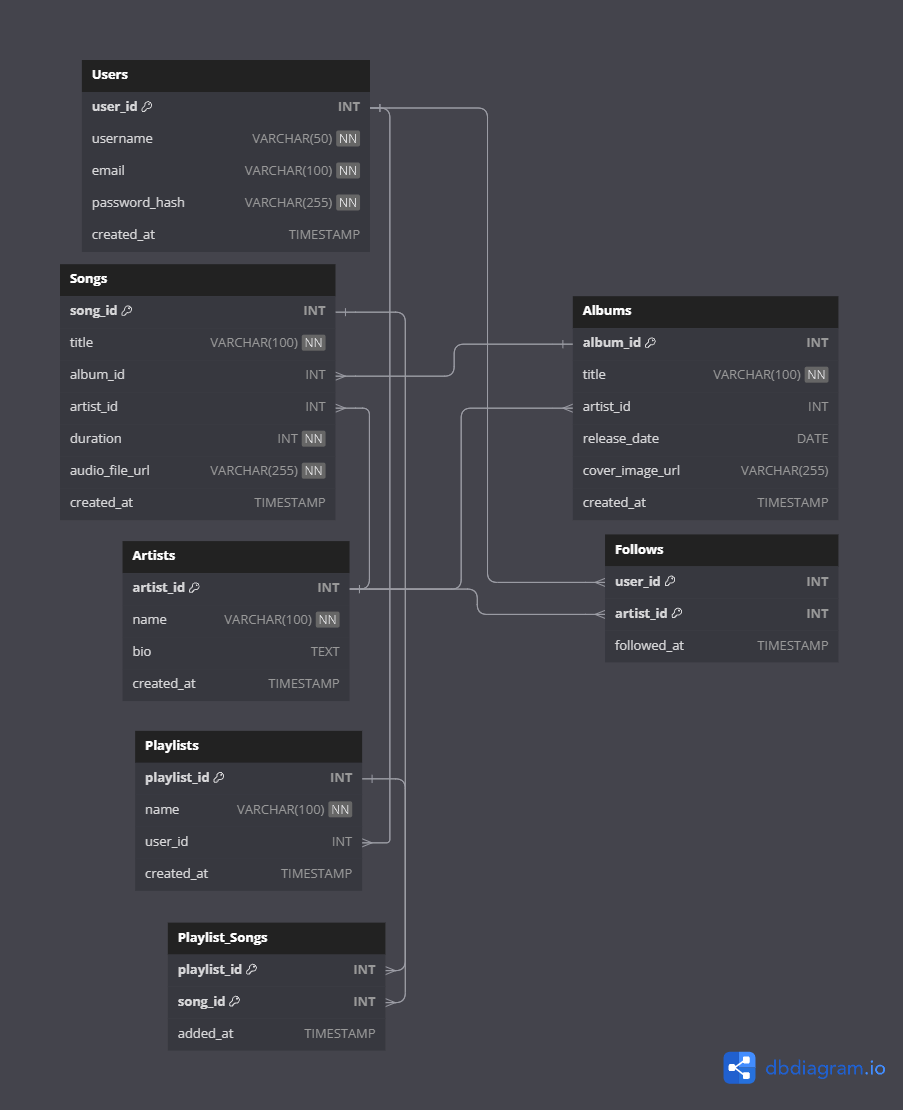
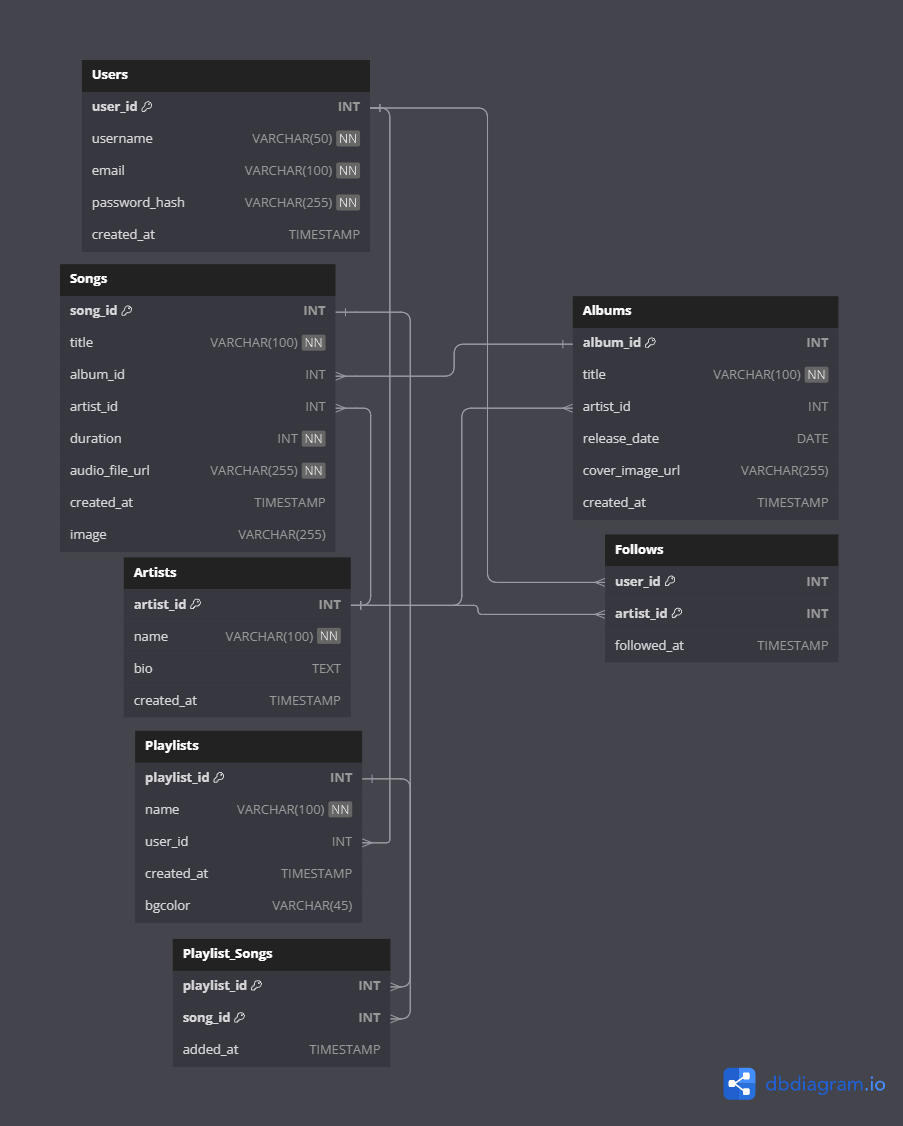
api101

diff --git a/src/services/server.js b/src/services/server.js
@@ -1,8 +1,12 @@
-const express = require("express");
-const mysql = require("mysql");
-const bcrypt = require("bcryptjs");
-const http = require("http");
-const cors = require("cors");
+import express from "express";
+import cors from "cors";
+import mysql from "mysql";
+import bcrypt from "bcrypt";
+import http from "http";
+import fs from "fs";
+import path from "path";
+import multer from "multer";
+const upload = multer({ dest: 'uploads/' });
 
 const port = 3000;
 
@@ -95,71 +99,71 @@ app.get("/playlist/:id/songs", (req, res) => {
 });
 
 app.post(
-    "/addSong",
-    upload.fields([
-        { name: "image", maxCount: 1 },
-        { name: "song", maxCount: 1 },
-    ]),
-    (req, res) => {
-        const { title, artist_id, album_id } = req.body;
+  "/addSong",
+  upload.fields([
+      { name: "image", maxCount: 1 },
+      { name: "song", maxCount: 1 },
+  ]),
+  (req, res) => {
+      const { title, artist_id, album_id } = req.body;
 
-        // First, add the song to the database
-        const query =
-            "INSERT INTO songs (title, artist_id, album_id) VALUES (?, ?, ?)";
-        const values = [title, artist_id, album_id];
+      // Önce şarkıyı veritabanına ekleyin
+      const query =
+          "INSERT INTO songs (title, artist_id, album_id) VALUES (?, ?, ?)";
+      const values = [title, artist_id, album_id];
 
-        db.query(query, values, (err, result) => {
-            if (err) {
-                console.error("An error occurred while adding the song:", err);
-                return res.status(500).send("An error occurred while adding the song.");
-            }
+      db.query(query, values, (err, result) => {
+          if (err) {
+              console.error("Şarkı eklenirken bir hata oluştu:", err);
+              return res.status(500).send("Şarkı eklenirken bir hata oluştu.");
+          }
 
-            const songId = result.insertId; // The inserted song's ID
+          const songId = result.insertId; // Eklenen şarkının ID'si
 
-            // Generate file names with the song ID
-            const imageFileName = `image_${songId}.jpg`;
-            const songFileName = `song_${songId}.mp3`;
+          // Şarkı ID'si ile dosya adları oluşturun
+          const imageFileName = `image_${songId}.jpg`;
+          const songFileName = `song_${songId}.mp3`;
 
-            // Rename and save the files to the correct locations
-            const oldImagePath = req.files.image[0].path;
-            const oldSongPath = req.files.song[0].path;
+          // Dosyaları doğru konumlara yeniden adlandırarak kaydedin
+          const oldImagePath = req.files.image[0].path;
+          const oldSongPath = req.files.song[0].path;
 
-            const newImagePath = path.join(__dirname, "images", imageFileName);
-            const newSongPath = path.join(__dirname, "songs", songFileName);
+          const newImagePath = path.join(__dirname, "src", "components", imageFileName);
+          const newSongPath = path.join(__dirname, "src", "components", songFileName);
 
-            fs.rename(oldImagePath, newImagePath, (err) => {
-                if (err) {
-                    console.error("An error occurred while renaming the image file:", err);
-                    return res.status(500).send("An error occurred while renaming the image file.");
-                }
+          fs.rename(oldImagePath, newImagePath, (err) => {
+              if (err) {
+                  console.error("Görsel dosyası yeniden adlandırılırken bir hata oluştu:", err);
+                  return res.status(500).send("Görsel dosyası yeniden adlandırılırken bir hata oluştu.");
+              }
 
-                fs.rename(oldSongPath, newSongPath, (err) => {
-                    if (err) {
-                        console.error("An error occurred while renaming the song file:", err);
-                        return res.status(500).send("An error occurred while renaming the song file.");
-                    }
+              fs.rename(oldSongPath, newSongPath, (err) => {
+                  if (err) {
+                      console.error("Şarkı dosyası yeniden adlandırılırken bir hata oluştu:", err);
+                      return res.status(500).send("Şarkı dosyası yeniden adlandırılırken bir hata oluştu.");
+                  }
 
-                    // Determine the relative file paths
-                    const relativeImagePath = path.join("../assets", imageFileName);
-                    const relativeSongPath = path.join("../assets", songFileName);
+                  // Göreli dosya yollarını belirleyin
+                  const relativeImagePath = path.join("src", "components", imageFileName);
+                  const relativeSongPath = path.join("src", "components", songFileName);
 
-                    // Update the file names in the database
-                    const updateQuery =
-                        "UPDATE songs SET image = ?, audio_file_url = ? WHERE id = ?";
-                    const updateValues = [relativeImagePath, relativeSongPath, songId];
+                  // Dosya adlarını veritabanında güncelleyin
+                  const updateQuery =
+                      "UPDATE songs SET image = ?, audio_file_url = ? WHERE song_id = ?";
+                  const updateValues = [relativeImagePath, relativeSongPath, songId];
 
-                    db.query(updateQuery, updateValues, (err) => {
-                        if (err) {
-                            console.error("An error occurred while updating the file names:", err);
-                            return res.status(500).send("An error occurred while updating the file names.");
-                        }
+                  db.query(updateQuery, updateValues, (err) => {
+                      if (err) {
+                          console.error("Dosya adları güncellenirken bir hata oluştu:", err);
+                          return res.status(500).send("Dosya adları güncellenirken bir hata oluştu.");
+                      }
 
-                        res.status(201).send("Song and details added successfully.");
-                    });
-                });
-            });
-        });
-    }
+                      res.status(201).send("Şarkı ve detaylar başarıyla eklendi.");
+                  });
+              });
+          });
+      });
+  }
 );
 
 const server = http.createServer(app);
